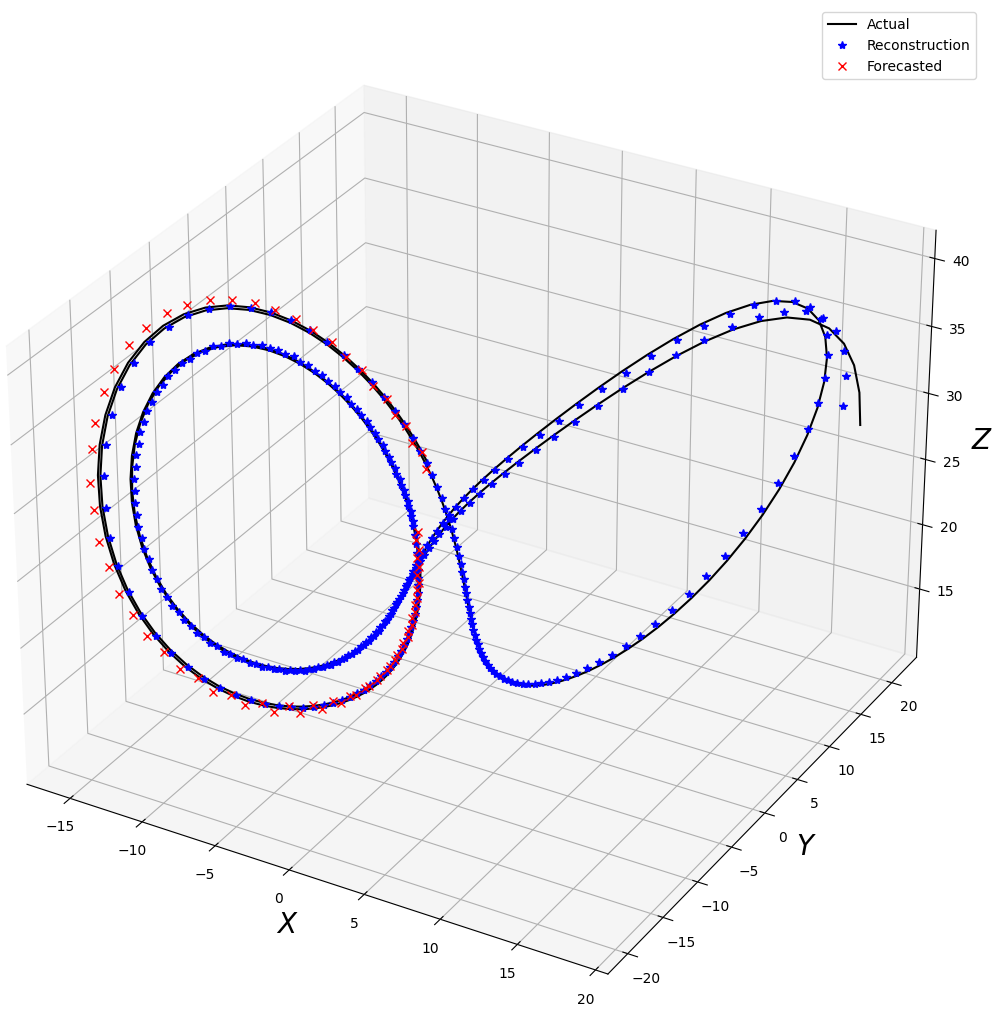
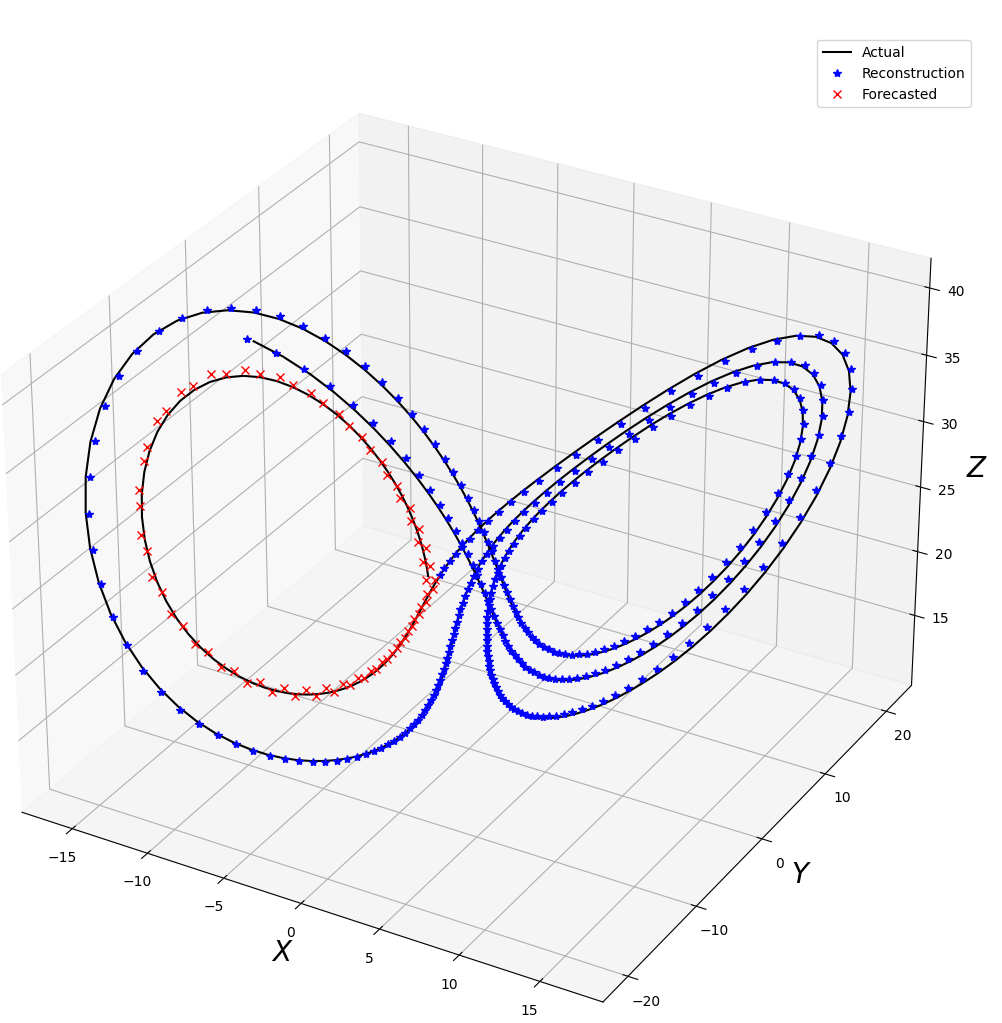
nicer figures

diff --git a/visualizations.py b/visualizations.py
@@ -25,7 +25,7 @@ if __name__ == '__main__':
     start_epoch = 1
     device="cuda"
 
-    n = 6
+    n = 5
 
     model = Lusch(input_dim,koopman_dim,hidden_dim = hidden_dim,delta_t=delta_t,device=device).to(device)
 
@@ -41,8 +41,6 @@ if __name__ == '__main__':
 
     model.mu = train_dl.dataset.mu.to(device)
     model.std = train_dl.dataset.std.to(device)
-
-    save_every = 5
 
     if load_chkpt:
         print("LOAD CHECKPOINTS")
@@ -65,8 +63,8 @@ if __name__ == '__main__':
         plt.figure(figsize=(20, 10))
         #     for i in range(3):
 
-        plt.plot(np.arange(X_test.shape[1]), X_test[n, :, :], '--')
-        plt.plot(np.arange(x_recon_hat.shape[0]), x_recon_hat)
+        plt.plot(np.arange(X_test.shape[1]), X_test[n, :, :], '-')
+        plt.plot(np.arange(x_recon_hat.shape[0]), x_recon_hat,'--')
         plt.plot(X_test_recon.shape[1] + np.arange(horizon), x_ahead_hat.cpu(), 'r.')
 
         plt.xlabel("Time (n)", fontsize=20)
